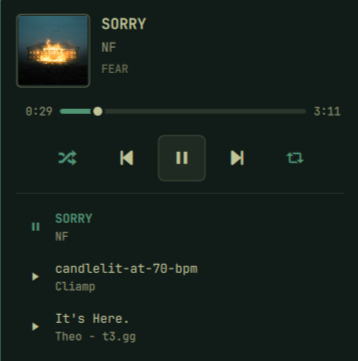
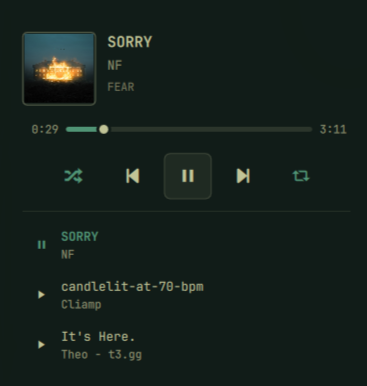
feat: framed screenshots with balanced gradient borders

diff --git a/banners/index.html b/banners/index.html
@@ -131,10 +131,25 @@
           align-items: center;
           justify-content: center;
         }
-        .shot {
-          max-width: 560px;
-          max-height: 620px;
-          box-shadow: 0 30px 80px rgba(0, 0, 0, 0.6);
+        .shot-frame {
+          padding: 3px;
+          border-radius: 14px;
+          background: linear-gradient(
+            135deg,
+            #54b375,
+            #296c49 50%,
+            #54b375
+          );
+          box-shadow:
+            0 30px 80px rgba(0, 0, 0, 0.6),
+            0 0 18px rgba(84, 179, 117, 0.3);
+
+          .shot {
+            display: block;
+            max-width: 554px;
+            max-height: 614px;
+            border-radius: 11px;
+          }
         }
         .footer {
           position: absolute;

diff --git a/banners/banners.js b/banners/banners.js
@@ -34,9 +34,11 @@ function addBanner(b) {
             </li>`).join("")}
         </ul>
       </div>
-      <div class="right">
-        <img class="shot" src="${b.shot}" alt="${b.name}">
-      </div>
+        <div class="right">
+          <div class="shot-frame">
+            <img class="shot" src="${b.shot}" alt="${b.name}">
+          </div>
+        </div>
     </div>
     <div class="footer">${b.id} &middot; v${b.version}</div>`;
   document.getElementById("banners").appendChild(section);
